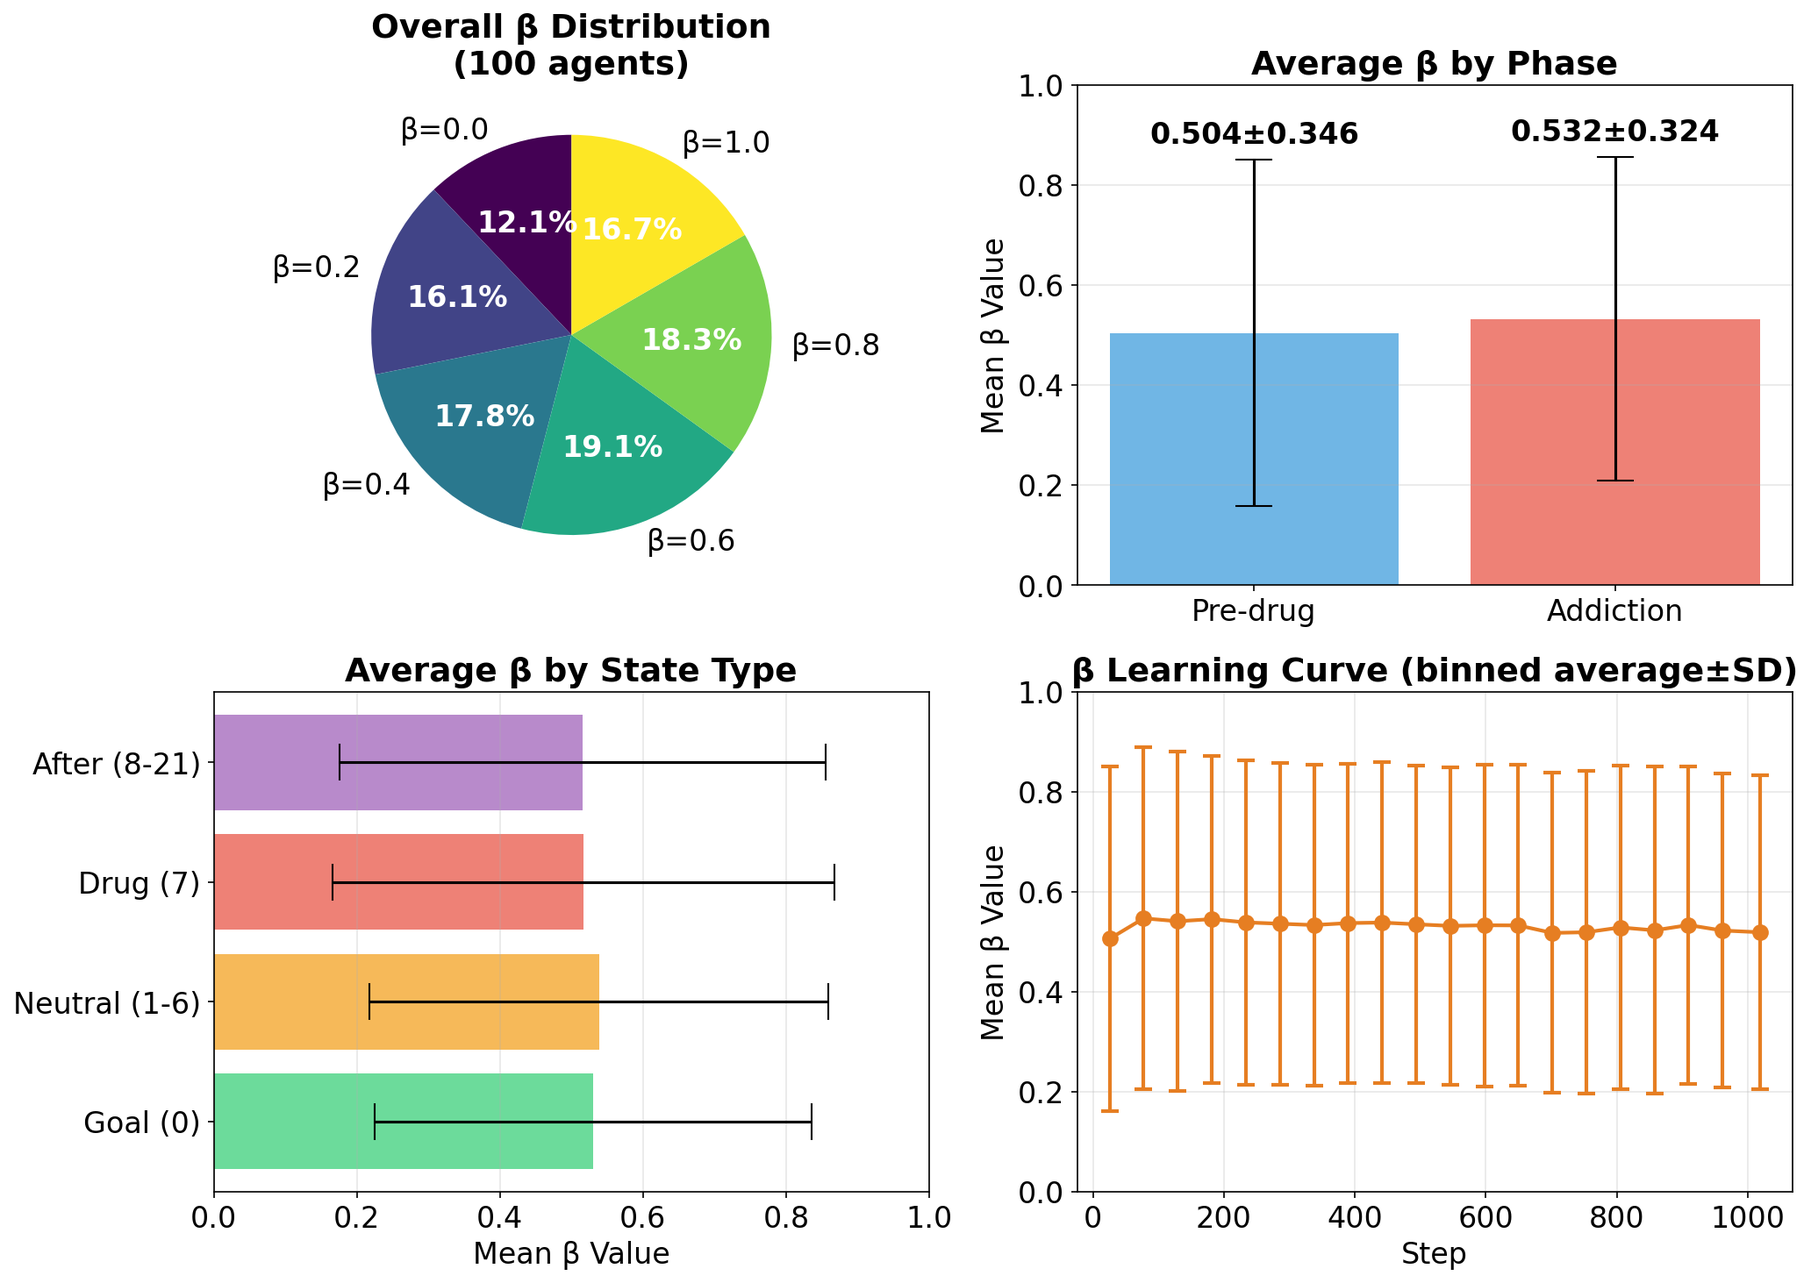
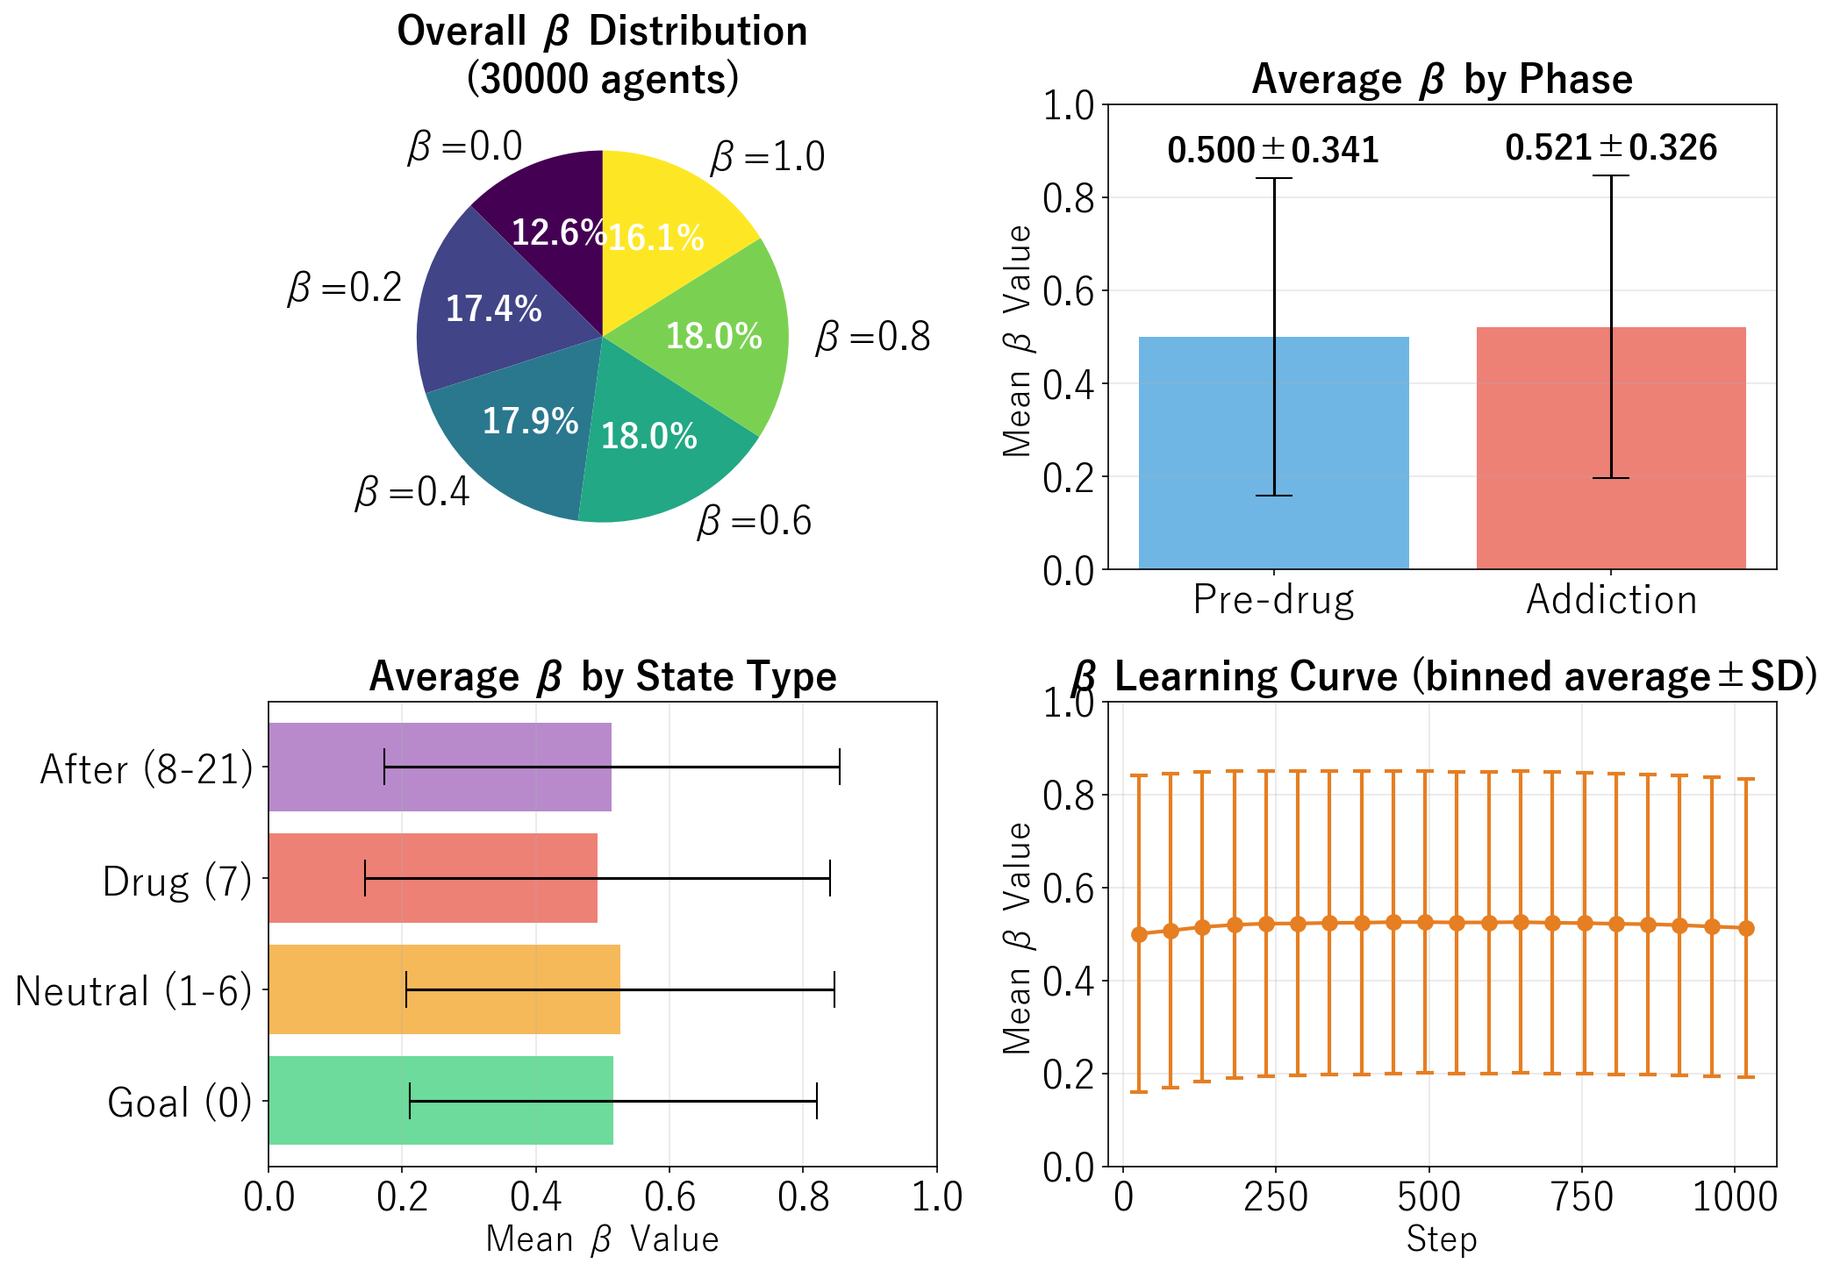
プロットのフォントサイズを調整し、視認性を向上させる

diff --git a/addiction_rl_sim.py b/addiction_rl_sim.py
@@ -799,13 +799,13 @@ def plot_beta_analysis(beta_stats: BetaStatistics, output_prefix: str = "beta_an
     matplotlib.rcParams['axes.unicode_minus'] = False  # マイナス記号の文字化け対策
     # 全体フォントサイズを大きめに設定（16pt以上）
     matplotlib.rcParams.update({
-        'font.size': 16,
-        'axes.titlesize': 18,
-        'axes.labelsize': 16,
-        'xtick.labelsize': 16,
-        'ytick.labelsize': 16,
-        'legend.fontsize': 16,
-        'figure.titlesize': 18,
+        'font.size': 19,
+        'axes.titlesize': 21,
+        'axes.labelsize': 19,
+        'xtick.labelsize': 22,
+        'ytick.labelsize': 22,
+        'legend.fontsize': 19,
+        'figure.titlesize': 21,
     })
     
     # 全エージェントのデータを2次元配列に変換
@@ -840,21 +840,21 @@ def plot_beta_analysis(beta_stats: BetaStatistics, output_prefix: str = "beta_an
     phase_boundary = np.where(np.diff(phase_mean) != 0)[0]
     for boundary in phase_boundary:
         ax1_top.axvline(step_array[boundary], color='gray', linestyle='--', alpha=0.5, linewidth=1.5)
-        ax1_top.text(step_array[boundary], 1.02, 'Phase Change', ha='center', fontsize=16)
+        ax1_top.text(step_array[boundary], 1.02, 'Phase Change', ha='center', fontsize=19)
     
-    ax1_top.set_ylabel('Selected β Value', fontsize=16)
+    ax1_top.set_ylabel('Selected β Value', fontsize=19)
     ax1_top.set_ylim(-0.05, 1.1)
     ax1_top.set_title(f'β Selection Over Time - Mean±SD across {beta_stats.num_agents} agents', 
-                      fontsize=18, fontweight='bold')
+                      fontsize=21, fontweight='bold')
     ax1_top.legend(loc='upper right')
     ax1_top.grid(True, alpha=0.3)
     
     # 下段: 状態の時系列（平均）
     ax1_bottom = fig1.add_subplot(gs1[1], sharex=ax1_top)
     ax1_bottom.plot(step_array, state_mean, 'b-', linewidth=1, alpha=0.7)
-    ax1_bottom.set_xlabel('Step', fontsize=16)
-    ax1_bottom.set_ylabel('Mean State', fontsize=16)
-    ax1_bottom.set_title('Average State Trajectory', fontsize=18)
+    ax1_bottom.set_xlabel('Step', fontsize=19)
+    ax1_bottom.set_ylabel('Mean State', fontsize=19)
+    ax1_bottom.set_title('Average State Trajectory', fontsize=21)
     ax1_bottom.grid(True, alpha=0.3)
     
     plt.tight_layout()
@@ -888,12 +888,12 @@ def plot_beta_analysis(beta_stats: BetaStatistics, output_prefix: str = "beta_an
             count = np.sum(np.isclose(phase_betas, beta_val))
             percentage = 100.0 * count / len(phase_betas)
             ax.text(beta_val, count, f'{percentage:.1f}%', 
-                   ha='center', va='bottom', fontsize=16, fontweight='bold')
+                   ha='center', va='bottom', fontsize=19, fontweight='bold')
         
-        ax.set_xlabel('β Value', fontsize=16)
-        ax.set_ylabel('Frequency', fontsize=16)
+        ax.set_xlabel('β Value', fontsize=19)
+        ax.set_ylabel('Frequency', fontsize=19)
         ax.set_title(f'{phase_name} Phase (n={len(phase_betas)} steps, {beta_stats.num_agents} agents)', 
-                    fontsize=18, fontweight='bold')
+                    fontsize=21, fontweight='bold')
         ax.set_xticks(BETA_VALUES)
         ax.grid(True, alpha=0.3, axis='y')
     
@@ -923,13 +923,13 @@ def plot_beta_analysis(beta_stats: BetaStatistics, output_prefix: str = "beta_an
     
     # カラーバー
     cbar = plt.colorbar(im, ax=ax3)
-    cbar.set_label('Selection Percentage (%)', fontsize=16)
+    cbar.set_label('Selection Percentage (%)', fontsize=19)
     
     # 軸ラベル
-    ax3.set_xlabel('State', fontsize=16)
-    ax3.set_ylabel('β Value', fontsize=16)
+    ax3.set_xlabel('State', fontsize=19)
+    ax3.set_ylabel('β Value', fontsize=19)
     ax3.set_title(f'β Selection Heatmap by State ({beta_stats.num_agents} agents)', 
-                  fontsize=18, fontweight='bold')
+                  fontsize=21, fontweight='bold')
     ax3.set_xticks(range(NUM_STATES))
     ax3.set_yticks(range(len(BETA_VALUES)))
     ax3.set_yticklabels([f'{b:.1f}' for b in BETA_VALUES])
@@ -962,7 +962,7 @@ def plot_beta_analysis(beta_stats: BetaStatistics, output_prefix: str = "beta_an
         autotext.set_color('white')
         autotext.set_fontweight('bold')
     ax4_1.set_title(f'Overall β Distribution\n({beta_stats.num_agents} agents)', 
-                    fontsize=18, fontweight='bold')
+                    fontsize=21, fontweight='bold')
     
     # (2) フェーズごとの平均β
     ax4_2 = axes4[0, 1]
@@ -970,9 +970,9 @@ def plot_beta_analysis(beta_stats: BetaStatistics, output_prefix: str = "beta_an
     phase_stds = [np.std(beta_all[phase_all == i]) for i in range(len(PHASES))]
     bars = ax4_2.bar(phase_names, phase_means, yerr=phase_stds, 
                      color=['#3498db', '#e74c3c'], alpha=0.7, capsize=10)
-    ax4_2.set_ylabel('Mean β Value', fontsize=16)
+    ax4_2.set_ylabel('Mean β Value', fontsize=19)
     ax4_2.set_ylim(0, 1)
-    ax4_2.set_title('Average β by Phase', fontsize=18, fontweight='bold')
+    ax4_2.set_title('Average β by Phase', fontsize=21, fontweight='bold')
     ax4_2.grid(True, alpha=0.3, axis='y')
     
     # 値を表示
@@ -1001,9 +1001,9 @@ def plot_beta_analysis(beta_stats: BetaStatistics, output_prefix: str = "beta_an
     bars3 = ax4_3.barh(type_labels, type_means, xerr=type_stds, 
                        color=['#2ecc71', '#f39c12', '#e74c3c', '#9b59b6'], 
                        alpha=0.7, capsize=10)
-    ax4_3.set_xlabel('Mean β Value', fontsize=16)
+    ax4_3.set_xlabel('Mean β Value', fontsize=19)
     ax4_3.set_xlim(0, 1)
-    ax4_3.set_title('Average β by State Type', fontsize=18, fontweight='bold')
+    ax4_3.set_title('Average β by State Type', fontsize=21, fontweight='bold')
     ax4_3.grid(True, alpha=0.3, axis='x')
     
     # (4) β値の推移（学習曲線、平均±標準偏差）
@@ -1024,10 +1024,10 @@ def plot_beta_analysis(beta_stats: BetaStatistics, output_prefix: str = "beta_an
         ax4_4.errorbar(bin_steps, bin_means, yerr=bin_stds, 
                       fmt='o-', linewidth=2, markersize=8, color='#e67e22',
                       capsize=5, capthick=2)
-        ax4_4.set_xlabel('Step', fontsize=16)
-        ax4_4.set_ylabel('Mean β Value', fontsize=16)
+        ax4_4.set_xlabel('Step', fontsize=19)
+        ax4_4.set_ylabel('Mean β Value', fontsize=19)
         ax4_4.set_ylim(0, 1)
-        ax4_4.set_title('β Learning Curve (binned average±SD)', fontsize=18, fontweight='bold')
+        ax4_4.set_title('β Learning Curve (binned average±SD)', fontsize=21, fontweight='bold')
         ax4_4.grid(True, alpha=0.3)
     
     plt.tight_layout()
@@ -1071,12 +1071,12 @@ def plot_beta_analysis(beta_stats: BetaStatistics, output_prefix: str = "beta_an
         bars2 = ax5_1.bar(x_pos + width/2, freq_non_addicted, width,
                          label=f'Non-addicted (n={n_non_addicted})', color='#2ecc71', alpha=0.7)
         
-        ax5_1.set_xlabel('β Value', fontsize=16)
-        ax5_1.set_ylabel('Selection Frequency (%)', fontsize=16)
+        ax5_1.set_xlabel('β Value', fontsize=19)
+        ax5_1.set_ylabel('Selection Frequency (%)', fontsize=19)
         ax5_1.set_title('β Selection Frequency: Addicted vs Non-addicted', 
-                   fontsize=18, fontweight='bold')
+                   fontsize=21, fontweight='bold')
         ax5_1.set_xticks(x_pos)
-        ax5_1.set_xticklabels([f'{b:.1f}' for b in BETA_VALUES])
+        ax5_1.set_xticklabels([f'{b:.1f}' for b in BETA_VALUES], fontsize=22)
         ax5_1.legend()
         ax5_1.grid(True, alpha=0.3, axis='y')
         
@@ -1086,9 +1086,9 @@ def plot_beta_analysis(beta_stats: BetaStatistics, output_prefix: str = "beta_an
                   color='#e74c3c', density=True)
         ax5_2.hist(beta_non_addicted, bins=20, alpha=0.6, label=f'Non-addicted (n={n_non_addicted})',
                   color='#2ecc71', density=True)
-        ax5_2.set_xlabel('β Value', fontsize=16)
-        ax5_2.set_ylabel('Density', fontsize=16)
-        ax5_2.set_title('β Distribution Comparison', fontsize=18, fontweight='bold')
+        ax5_2.set_xlabel('β Value', fontsize=19)
+        ax5_2.set_ylabel('Density', fontsize=19)
+        ax5_2.set_title('β Distribution Comparison', fontsize=21, fontweight='bold')
         ax5_2.legend()
         ax5_2.grid(True, alpha=0.3)
         
@@ -1103,8 +1103,8 @@ def plot_beta_analysis(beta_stats: BetaStatistics, output_prefix: str = "beta_an
         bp['boxes'][1].set_facecolor('#2ecc71')
         bp['boxes'][1].set_alpha(0.7)
         
-        ax5_3.set_ylabel('β Value', fontsize=16)
-        ax5_3.set_title('β Value Distribution (Boxplot)', fontsize=18, fontweight='bold')
+        ax5_3.set_ylabel('β Value', fontsize=19)
+        ax5_3.set_title('β Value Distribution (Boxplot)', fontsize=21, fontweight='bold')
         ax5_3.grid(True, alpha=0.3, axis='y')
         
         # 平均値を表示
@@ -1177,12 +1177,12 @@ def plot_beta_analysis(beta_stats: BetaStatistics, output_prefix: str = "beta_an
                          yerr=stds_non, label='Non-addicted',
                          color='#2ecc71', alpha=0.7, capsize=5)
         
-        ax5_4.set_xlabel('Phase', fontsize=16)
-        ax5_4.set_ylabel('Mean β Value', fontsize=16)
+        ax5_4.set_xlabel('Phase', fontsize=19)
+        ax5_4.set_ylabel('Mean β Value', fontsize=19)
         ax5_4.set_title('Average β by Phase: Addicted vs Non-addicted', 
-                   fontsize=18, fontweight='bold')
+                   fontsize=21, fontweight='bold')
         ax5_4.set_xticks(x_pos_phase)
-        ax5_4.set_xticklabels(phase_names)
+        ax5_4.set_xticklabels(phase_names, fontsize=22)
         ax5_4.set_ylim(0, 1)
         ax5_4.legend()
         ax5_4.grid(True, alpha=0.3, axis='y')
@@ -1208,8 +1208,8 @@ def plot_beta_analysis(beta_stats: BetaStatistics, output_prefix: str = "beta_an
         bp1['boxes'][1].set_facecolor('#2ecc71')
         bp1['boxes'][1].set_alpha(0.7)
         
-        ax6_1.set_ylabel('β Standard Deviation (per agent)', fontsize=16)
-        ax6_1.set_title('β Variability Comparison', fontsize=18, fontweight='bold')
+        ax6_1.set_ylabel('β Standard Deviation (per agent)', fontsize=19)
+        ax6_1.set_title('β Variability Comparison', fontsize=21, fontweight='bold')
         ax6_1.grid(True, alpha=0.3, axis='y')
         
         # 平均値を表示
@@ -1234,9 +1234,9 @@ def plot_beta_analysis(beta_stats: BetaStatistics, output_prefix: str = "beta_an
                   color='#e74c3c', density=True)
         ax6_2.hist(extreme_rates_non, bins=20, alpha=0.6, label='Non-addicted',
                   color='#2ecc71', density=True)
-        ax6_2.set_xlabel('Extreme Value Usage (%)', fontsize=16)
-        ax6_2.set_ylabel('Density', fontsize=16)
-        ax6_2.set_title('Extreme Strategy Usage Distribution', fontsize=18, fontweight='bold')
+        ax6_2.set_xlabel('Extreme Value Usage (%)', fontsize=19)
+        ax6_2.set_ylabel('Density', fontsize=19)
+        ax6_2.set_title('Extreme Strategy Usage Distribution', fontsize=21, fontweight='bold')
         ax6_2.legend()
         ax6_2.grid(True, alpha=0.3)
         ax6_2.axvline(np.mean(extreme_rates_add), color='#e74c3c', linestyle='--', linewidth=2)
@@ -1253,11 +1253,11 @@ def plot_beta_analysis(beta_stats: BetaStatistics, output_prefix: str = "beta_an
         colors_diff = ['#e74c3c' if d > 0 else '#2ecc71' for d in freq_diff]
         bars_diff = ax6_3.bar(range(len(BETA_VALUES)), freq_diff, color=colors_diff, alpha=0.7)
         ax6_3.axhline(0, color='black', linewidth=1)
-        ax6_3.set_xlabel('β Value', fontsize=16)
-        ax6_3.set_ylabel('Usage Difference (%)', fontsize=16)
-        ax6_3.set_title('β Usage: Addicted - Non-addicted', fontsize=18, fontweight='bold')
+        ax6_3.set_xlabel('β Value', fontsize=19)
+        ax6_3.set_ylabel('Usage Difference (%)', fontsize=19)
+        ax6_3.set_title('β Usage: Addicted - Non-addicted', fontsize=21, fontweight='bold')
         ax6_3.set_xticks(range(len(BETA_VALUES)))
-        ax6_3.set_xticklabels([f'{b:.1f}' for b in BETA_VALUES])
+        ax6_3.set_xticklabels([f'{b:.1f}' for b in BETA_VALUES], fontsize=22)
         ax6_3.grid(True, alpha=0.3, axis='y')
         
         # 値をバーに表示
@@ -1265,7 +1265,7 @@ def plot_beta_analysis(beta_stats: BetaStatistics, output_prefix: str = "beta_an
             height = bar.get_height()
             ax6_3.text(bar.get_x() + bar.get_width()/2, height,
                       f'{diff:+.1f}%', ha='center', 
-                      va='bottom' if height > 0 else 'top', fontsize=16)
+                      va='bottom' if height > 0 else 'top', fontsize=19)
         
         # (4) 時系列でのβ平均（依存群vs非依存群）
         ax6_4 = axes6[1, 0]
@@ -1293,9 +1293,9 @@ def plot_beta_analysis(beta_stats: BetaStatistics, output_prefix: str = "beta_an
         for boundary in phase_boundary:
             ax6_4.axvline(step_array[boundary], color='gray', linestyle='--', alpha=0.5)
         
-        ax6_4.set_xlabel('Step', fontsize=16)
-        ax6_4.set_ylabel('Mean β Value', fontsize=16)
-        ax6_4.set_title('β Dynamics: Addicted vs Non-addicted', fontsize=18, fontweight='bold')
+        ax6_4.set_xlabel('Step', fontsize=19)
+        ax6_4.set_ylabel('Mean β Value', fontsize=19)
+        ax6_4.set_title('β Dynamics: Addicted vs Non-addicted', fontsize=21, fontweight='bold')
         ax6_4.set_ylim(-0.05, 1.05)
         ax6_4.legend()
         ax6_4.grid(True, alpha=0.3)
@@ -1324,8 +1324,8 @@ def plot_beta_analysis(beta_stats: BetaStatistics, output_prefix: str = "beta_an
         bp2['boxes'][1].set_facecolor('#2ecc71')
         bp2['boxes'][1].set_alpha(0.7)
         
-        ax6_5.set_ylabel('Middle Values Usage (%)', fontsize=16)
-        ax6_5.set_title('Balanced Strategy Usage (β=0.2-0.8)', fontsize=18, fontweight='bold')
+        ax6_5.set_ylabel('Middle Values Usage (%)', fontsize=19)
+        ax6_5.set_title('Balanced Strategy Usage (β=0.2-0.8)', fontsize=21, fontweight='bold')
         ax6_5.grid(True, alpha=0.3, axis='y')
         
         # 平均値を表示
@@ -1360,16 +1360,16 @@ def plot_beta_analysis(beta_stats: BetaStatistics, output_prefix: str = "beta_an
         
         ax6_6.plot(bin_centers, addiction_rates_by_beta, 'o-', linewidth=2, markersize=8,
                   color='#9b59b6')
-        ax6_6.set_xlabel('Mean β Value (binned)', fontsize=16)
-        ax6_6.set_ylabel('Addiction Rate (%)', fontsize=16)
-        ax6_6.set_title('Addiction Rate by Mean β Value', fontsize=18, fontweight='bold')
+        ax6_6.set_xlabel('Mean β Value (binned)', fontsize=19)
+        ax6_6.set_ylabel('Addiction Rate (%)', fontsize=19)
+        ax6_6.set_title('Addiction Rate by Mean β Value', fontsize=21, fontweight='bold')
         ax6_6.grid(True, alpha=0.3)
         ax6_6.set_xlim(0, 1)
         
         # サンプル数を注釈
         for x, y, count in zip(bin_centers, addiction_rates_by_beta, bin_counts):
             ax6_6.annotate(f'n={count}', (x, y), textcoords='offset points',
-                          xytext=(0, 5), ha='center', fontsize=16, alpha=0.9)
+                          xytext=(0, 5), ha='center', fontsize=19, alpha=0.9)
         
         plt.tight_layout()
         plt.savefig(f"{output_prefix}_detailed_analysis.png", dpi=150, bbox_inches='tight')
@@ -1447,11 +1447,11 @@ def plot_beta_analysis(beta_stats: BetaStatistics, output_prefix: str = "beta_an
             ax7_1.axvline(step_array[boundary], color='gray', linestyle='--', 
                          linewidth=1.5, alpha=0.5)
         
-        ax7_1.set_ylabel('Usage Rate (%)', fontsize=16)
+        ax7_1.set_ylabel('Usage Rate (%)', fontsize=22)
         ax7_1.set_ylim(0, 26)
         ax7_1.set_title(f'Windowed β Usage: Addicted (n={n_addicted_agents} agents)', 
-                   fontsize=18, fontweight='bold')
-        ax7_1.legend(loc='best', fontsize=16, ncol=3)
+                   fontsize=21, fontweight='bold')
+        ax7_1.legend(loc='best', fontsize=19, ncol=3)
         ax7_1.grid(True, alpha=0.3)
         
         # Non-addicted群のプロット（下段）
@@ -1467,12 +1467,12 @@ def plot_beta_analysis(beta_stats: BetaStatistics, output_prefix: str = "beta_an
             ax7_2.axvline(step_array[boundary], color='gray', linestyle='--',
                          linewidth=1.5, alpha=0.5)
         
-        ax7_2.set_xlabel('Step (window center)', fontsize=16)
-        ax7_2.set_ylabel('Usage Rate (%)', fontsize=16)
+        ax7_2.set_xlabel('Step (window center)', fontsize=22)
+        ax7_2.set_ylabel('Usage Rate (%)', fontsize=22)
         ax7_2.set_ylim(0, 26)
         ax7_2.set_title(f'Windowed β Usage: Non-addicted (n={n_non_addicted_agents} agents)', 
-                   fontsize=18, fontweight='bold')
-        ax7_2.legend(loc='best', fontsize=16, ncol=3)
+                   fontsize=21, fontweight='bold')
+        ax7_2.legend(loc='best', fontsize=19, ncol=3)
         ax7_2.grid(True, alpha=0.3)
         
         plt.tight_layout()
@@ -1528,10 +1528,10 @@ def plot_beta_analysis(beta_stats: BetaStatistics, output_prefix: str = "beta_an
         ax8_1.hist(beta_switches_non_addicted, bins=bins_switches, alpha=0.6,
               label=f'Non-addicted (n={n_non_addicted})', color='#3498db', density=True)
         
-        ax8_1.set_xlabel('Number of β switches (all steps)', fontsize=16)
-        ax8_1.set_ylabel('Density', fontsize=16)
-        ax8_1.set_title('Distribution of β Switch Counts', fontsize=18, fontweight='bold')
-        ax8_1.legend(fontsize=16)
+        ax8_1.set_xlabel('Number of β switches (all steps)', fontsize=19)
+        ax8_1.set_ylabel('Density', fontsize=19)
+        ax8_1.set_title('Distribution of β Switch Counts', fontsize=21, fontweight='bold')
+        ax8_1.legend(fontsize=19)
         ax8_1.grid(True, alpha=0.3)
         
         # 平均値を垂直線で表示
@@ -1541,7 +1541,7 @@ def plot_beta_analysis(beta_stats: BetaStatistics, output_prefix: str = "beta_an
                  linewidth=2, label=f'Addicted mean: {mean_switches_add:.1f}')
         ax8_1.axvline(mean_switches_non, color='#3498db', linestyle='--',
                  linewidth=2, label=f'Non-addicted mean: {mean_switches_non:.1f}')
-        ax8_1.legend(fontsize=16)
+        ax8_1.legend(fontsize=19)
         
         # (2) β「飛び越し選択」の頻度（右図）
         ax8_2 = axes8[1]
@@ -1584,12 +1584,12 @@ def plot_beta_analysis(beta_stats: BetaStatistics, output_prefix: str = "beta_an
         bars_jump_non = ax8_2.bar(x_pos_jump + width_jump/2, jump_freq_non, width_jump,
                       label='Non-addicted', color='#3498db', alpha=0.7)
         
-        ax8_2.set_xlabel('β Switch Distance (index difference)', fontsize=16)
-        ax8_2.set_ylabel('Density', fontsize=16)
-        ax8_2.set_title('Frequency of β Jump Selections', fontsize=18, fontweight='bold')
+        ax8_2.set_xlabel('β Switch Distance (index difference)', fontsize=19)
+        ax8_2.set_ylabel('Density', fontsize=19)
+        ax8_2.set_title('Frequency of β Jump Selections', fontsize=21, fontweight='bold')
         ax8_2.set_xticks(x_pos_jump)
-        ax8_2.set_xticklabels(jump_labels, fontsize=16)
-        ax8_2.legend(fontsize=16)
+        ax8_2.set_xticklabels(jump_labels, fontsize=22)
+        ax8_2.legend(fontsize=19)
         ax8_2.grid(True, alpha=0.3, axis='y')
         
         # 各バーに値を表示
@@ -1598,7 +1598,7 @@ def plot_beta_analysis(beta_stats: BetaStatistics, output_prefix: str = "beta_an
                 height = bar.get_height()
                 if height > 0:
                     ax8_2.text(bar.get_x() + bar.get_width()/2, height,
-                              f'{height:.3f}', ha='center', va='bottom', fontsize=16)
+                              f'{height:.3f}', ha='center', va='bottom', fontsize=19)
         
         plt.tight_layout()
         plt.savefig(f"{output_prefix}_beta_switches_jumps.png", dpi=150, bbox_inches='tight')
